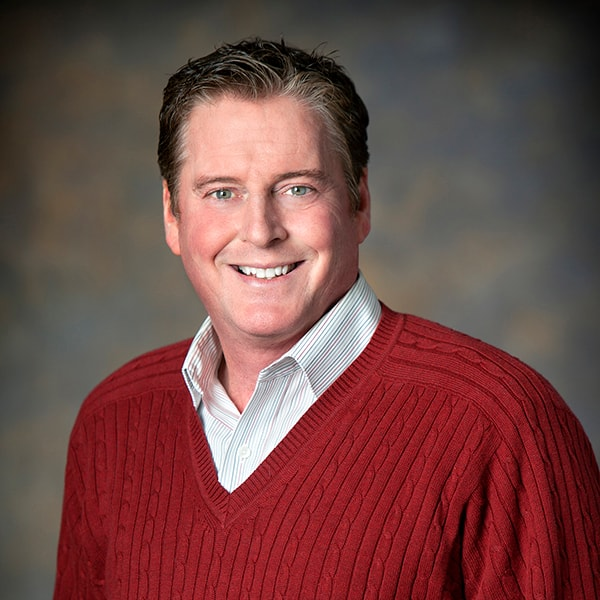
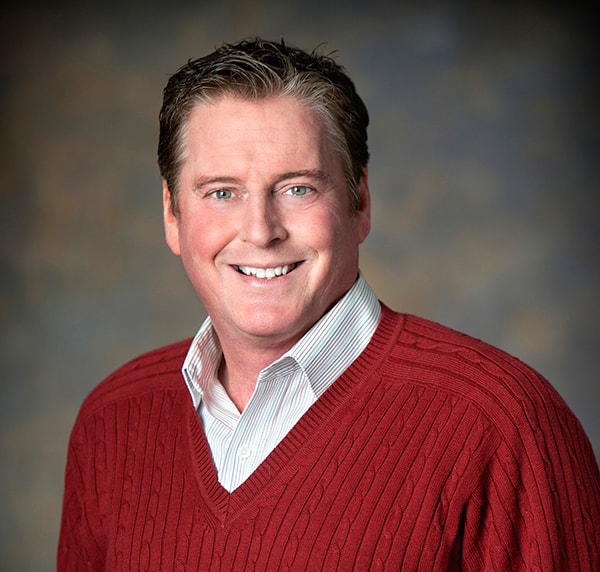
re-sizing team photos

Changed region(s): [[0.09, 0.0594, 1.0, 1.0], [0.15, 0.8916, 0.18, 0.951]]

diff --git a/team.html b/team.html
@@ -247,7 +247,7 @@
                                         </div>
                                     </div>
                                     <div class="card-content center">
-                                        <h5>Rubab Jafry O'Connor</h5><br/>
+                                        <h5>Rubab O'Connor</h5><br/>
                                         <h6>Advisor</h6>
                                     </div>
                                 </div>
